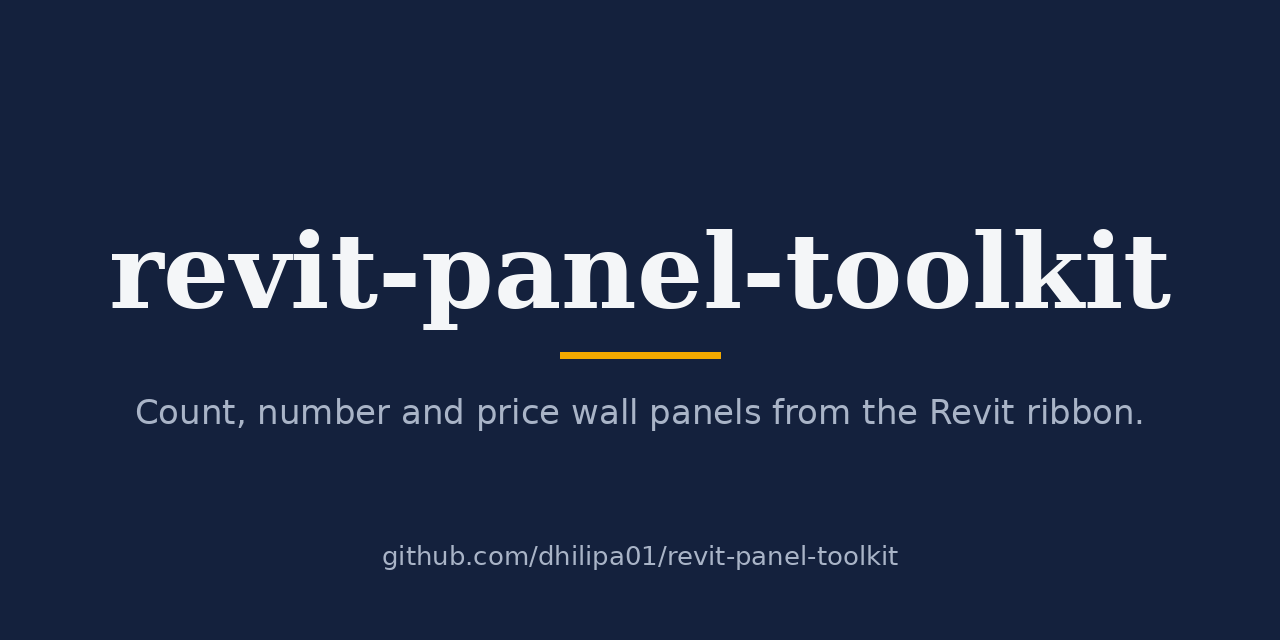
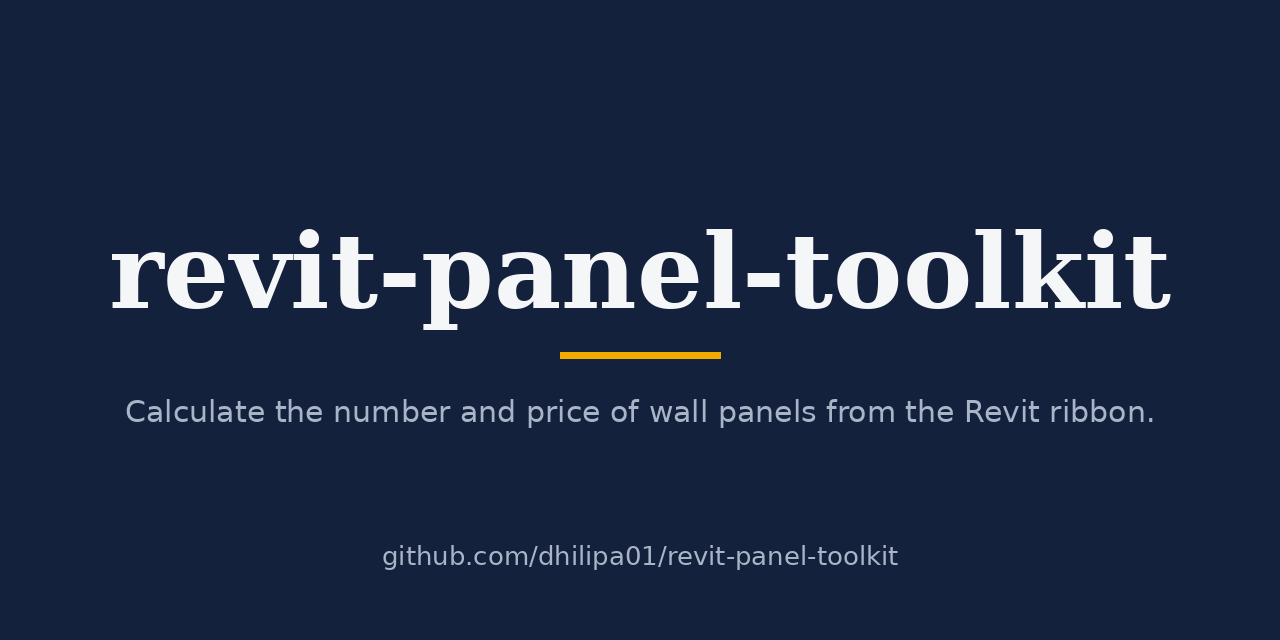
docs: use British English and plain wording

Changed region(s): [[0.0938, 0.625, 0.9062, 0.6875]]

diff --git a/tests/test_adapter.py b/tests/test_adapter.py
@@ -1,8 +1,9 @@
-"""Run: python3 test_adapter.py
+"""Run: python tests/test_adapter.py
 
-Runs the REAL bauser_revit / bauser_ui / button scripts against a tiny fake of
-pyRevit + the Revit API, so typos and wrong call shapes surface on Linux.
-It cannot prove the real Revit API behaves the same; see README 'Verify in Revit'.
+Runs the real bauser_revit and bauser_ui modules and the button scripts against a
+small fake of pyRevit and the Revit API, so typos and wrong call shapes show up on
+Linux. It cannot show that the Revit API behaves the same way. See
+docs/VERIFY_IN_REVIT.md for the checks that need Revit.
 """
 import contextlib
 import os

diff --git a/tests/test_core.py b/tests/test_core.py
@@ -1,4 +1,4 @@
-"""Run: python3 test_core.py  (checks the Revit-free logic; the Revit adapter can't run on Linux)"""
+"""Run: python tests/test_core.py. Covers the logic that has no Revit dependency."""
 import os
 import sys
 import tempfile

diff --git a/README.md b/README.md
@@ -5,12 +5,12 @@
   <img src="docs/media/wordmark-light.svg" alt="revit-panel-toolkit" width="640">
 </picture>
 
-**Count, number and price wall panels from the Revit ribbon.**
+Calculate the number and price of wall panels from the Revit ribbon.
 
-A pyRevit extension for panelized, industrialized construction.
+A pyRevit extension for panelised, industrialised construction.
 
 [![CI](https://img.shields.io/github/actions/workflow/status/dhilipa01/revit-panel-toolkit/ci.yml?branch=main&style=flat-square&label=CI&labelColor=14213D&color=3A4A66)](https://github.com/dhilipa01/revit-panel-toolkit/actions/workflows/ci.yml)
-[![License](https://img.shields.io/badge/license-MIT-3A4A66?style=flat-square&labelColor=14213D)](LICENSE)
+[![Licence](https://img.shields.io/badge/licence-MIT-3A4A66?style=flat-square&labelColor=14213D)](LICENSE)
 [![pyRevit](https://img.shields.io/badge/pyRevit-IronPython-3A4A66?style=flat-square&labelColor=14213D)](https://github.com/pyrevitlabs/pyRevit)
 
 </div>
@@ -28,23 +28,23 @@ Total        R$ 13,362.51  (with 5% waste)
 Approx.      € 2,357.45  (EUR/BRL 5.6682, 2026-10-19)
 ```
 
-The sample above runs without Revit, on made-up panels and illustrative prices.
+The sample runs without Revit, on made-up panels and illustrative prices.
 
-> **Status.** The logic is covered by tests that run outside Revit. The extension itself has not yet been run in a live Revit session. See [Verify in Revit](docs/VERIFY_IN_REVIT.md).
+> Status: the logic is covered by tests that run outside Revit. The extension has not yet been run in a live Revit session. See [Verify in Revit](docs/VERIFY_IN_REVIT.md).
 
 ## Why
 
-Panelized construction moves the production of prefabricated façade and interior wall panels into a factory. Each panel has to be counted, numbered and priced before it is built. Teams often do that by hand from Revit schedules. This extension puts each step behind one ribbon button, so the figures come straight from the model and reach the factory in one pass.
+Panelised construction moves the production of prefabricated façade and interior wall panels into a factory. Each panel needs a quantity, a number and a price before production starts, and teams often take these from Revit schedules by hand. This extension reads them from the model, one ribbon button for each step. It is a small piece of a BIM-to-factory design workflow, and the cost estimate also gives an early view of feasibility.
 
 ## Features
 
-- Count panels by wall type, with quantity, openings and area.
-- Number panels in one undoable transaction, level first, then left to right.
-- Price panels on net area or on full panel size, with a waste factor.
-- Show BRL with an approximate EUR figure.
-- Export a per-panel CSV and a budget CSV with code, description, unit, quantity, unit price and total.
-- Switch labels between Portuguese and English from the ribbon.
-- Keep the logic in plain Python, so it runs and is tested outside Revit.
+- Counts panels by wall type, with quantity, openings and area.
+- Numbers panels in one undoable transaction, level first, then left to right.
+- Prices panels on net area or on full panel size, with a waste factor.
+- Shows BRL with an approximate EUR figure.
+- Exports a per-panel CSV and a budget CSV with code, description, unit, quantity, unit price and total.
+- Switches labels between Portuguese and English from the ribbon.
+- Keeps the logic in plain Python, so it runs and is tested outside Revit.
 
 ## Installation
 
@@ -67,7 +67,7 @@ Select some walls, or select nothing to use every wall in the model, then click 
 | Button | What it does | Changes the model |
 |---|---|---|
 | Count Panels | Lists wall types with quantity, openings and area | No |
-| Number Panels | Writes `P-001`, `P-002`, ... to the Mark parameter, by level and then by X | Yes, one undoable transaction |
+| Number Panels | Writes `P-001`, `P-002` and so on to the Mark parameter, by level and then by X | Yes, one undoable transaction |
 | Panel Cost | Asks for a pricing basis and a waste factor, then shows the cost in BRL and approximate EUR | No |
 | PT / EN | Switches the labels between Portuguese and English | No |
 
@@ -98,30 +98,30 @@ Code;Description;Unit;Qty;Unit price (R$);Total (R$)
 Set a price and a reference code for a wall type in `src/Bauser.extension/lib/bauser_core.py`:
 
 ```python
-RATES = {"Facade": (520.0, "")}   # wall type name contains "Facade" -> R$ 520.00/m2, no reference code
+RATES = {"Facade": (520.0, "")}   # wall type name contains "Facade": R$ 520.00/m2, no reference code
 ```
 
 ## Configuration
 
-All settings live at the top of `src/Bauser.extension/lib/bauser_core.py`.
+All settings are at the top of `src/Bauser.extension/lib/bauser_core.py`.
 
 | Setting | Default | Meaning |
 |---|---|---|
-| `DEFAULT_RATE` | `490.0` | Placeholder price in R$/m2 for wall types with no entry in `RATES` |
-| `RATES` | `{}` | `{"type name part": (R$/m2, "reference code")}`. The code is only a label |
+| `DEFAULT_RATE` | `490.0` | Placeholder price in R$/m² for wall types with no entry in `RATES` |
+| `RATES` | `{}` | `{"type name part": (R$/m², "reference code")}`. The code is only a label |
 | `WASTE` | `0.05` | Default waste factor |
 | `MARK_PREFIX` | `"P-"` | Prefix for the Mark values |
 | `FX` | EUR/BRL 5.6682, 2026-10-19 | BCB PTAX closing rate, refreshed by hand |
 
-The language is stored in the pyRevit configuration and switched with the PT / EN button. Prices and waste in this repository are demo values.
+The language is stored in the pyRevit configuration and switched with the PT / EN button. Prices and waste in this repository are demonstration values.
 
 ## Documentation
 
-- [Reference](docs/REFERENCE.md): buttons, Revit parameters, formulas, CSV formats, module functions
-- [Standards and sources](docs/STANDARDS.md): ABNT NBR 16970, SINAPI, BIM decrees, EU-Mercosur, exchange rates
+- [Reference](docs/REFERENCE.md): buttons, Revit parameters, formulas, CSV formats and module functions
+- [Standards and sources](docs/STANDARDS.md): ABNT NBR 16970, SINAPI, the BIM decrees, EU-Mercosur and exchange rates
 - [Roadmap](docs/ROADMAP.md)
 - [Verify in Revit](docs/VERIFY_IN_REVIT.md)
-- [Prompts](docs/PROMPTS.md): how AI was used, and how its output was checked
+- [Prompts](docs/PROMPTS.md): how AI was used and how its output was checked
 
 ## Development
 
@@ -137,12 +137,12 @@ examples/               runnable sample
 docs/                   reference, standards, roadmap, checklists
 ```
 
-The code runs on IronPython 2.7 and on CPython 3: no f-strings, no type hints, and accented text uses `u""` literals.
+The code runs on IronPython 2.7 and on CPython 3. It uses no f-strings and no type hints, and accented text uses `u""` literals.
 
 ## Contributing
 
-Open an issue before a large change. Run both test files before a pull request. Start commit messages with `feat:`, `fix:`, `docs:` or `refactor:`.
+Open an issue before a large change, and run both test files before a pull request. Start commit messages with `feat:`, `fix:`, `docs:` or `refactor:`.
 
-## License
+## Licence
 
 MIT. See [LICENSE](LICENSE).

diff --git a/docs/VERIFY_IN_REVIT.md b/docs/VERIFY_IN_REVIT.md
@@ -1,23 +1,23 @@
 # Verify in Revit
 
-The logic is tested outside Revit. These steps check the parts that only a live Revit session can. Use a small model: two levels, about eight walls, two wall types, drawn left to right.
+The logic is tested outside Revit. These steps cover what only a live Revit session can show. Use a small model with two levels, about eight walls and two wall types, drawn from left to right.
 
 ## Buttons
 
-1. **Count Panels.** The window opens and the counts match the model. If a plain pyRevit output window opens instead, the WPF window failed and the traceback is printed there.
-2. **Number Panels.** Try it on a selection of two walls first. Ctrl+Z reverts it.
-3. **Panel Cost.** Both CSV buttons save a file that Excel opens with correct accents.
-4. **PT / EN.** The labels switch on the next click.
+1. Click Count Panels. The window opens and the counts match the model. If a plain pyRevit output window opens instead, the WPF window failed and the traceback is printed there.
+2. Try Number Panels on a selection of two walls first. Ctrl+Z reverts it.
+3. Run Panel Cost. Both CSV buttons save a file that Excel opens with the accents intact.
+4. Click PT / EN. The labels change on the next click.
 
 ## Net area and full panel size
 
-1. One plain wall, free ends, no openings. The Area parameter should equal Length times height. If not, Revit's Area and this extension's length times height measure different things.
-2. Add a door. Net area drops by the door cut. Full panel size does not change. Openings shows 1.
-3. Join two walls at a corner and compare both figures. A small difference means Revit's Area uses trimmed faces while this extension uses the location line length. Sources disagree and Autodesk does not say.
-4. Edit a wall profile, for example notch a corner. The warning for the full panel size basis must appear.
-5. Attach a wall top to a sloped roof. No warning appears, which is a known gap. Full panel size will be too high.
+1. Take one plain wall with free ends and no openings. Its Area parameter should equal its Length times its height. If it does not, Revit's Area and this extension's length times height measure different things.
+2. Add a door. Net area drops by the door cut, full panel size stays the same, and Openings shows 1.
+3. Join two walls at a corner and compare both figures. A small difference would mean that Revit's Area uses trimmed faces while this extension uses the location line length. Sources disagree and Autodesk does not say.
+4. Edit a wall profile, for example by notching a corner. The warning for the full panel size basis must appear.
+5. Attach a wall top to a sloped roof. No warning appears, which is a known gap, and full panel size comes out too high.
 
 ## Other
 
-- Walls that already share a Mark value elsewhere in the model can trigger Revit's duplicate-Mark warning. Use a clean model for the check.
-- Revit 2024 and later, and earlier versions, read ElementId values through different properties. Both are handled in code and neither has been run on a real install.
+- Walls that already share a Mark value elsewhere in the model can trigger Revit's duplicate Mark warning. Use a clean model for the check.
+- Revit 2024 and later read ElementId values through a different property from earlier versions. The code handles both, and neither has been run on a real installation.

diff --git a/docs/PROMPTS.md b/docs/PROMPTS.md
@@ -36,8 +36,6 @@ Do not invent members. If unsure, write "unverified".
 | Results window | pyRevit `WPFWindow`, `FindName`; `forms/_cpy.py` | WPF is unsupported on CPython, so the extension must use IronPython |
 | Accented text | IronPython 2.7 string rules | Every accented literal became `u""` |
 
-## Lessons
+## Notes
 
-- A first draft written from memory looked right and was still unverified. Reading the pyRevit source found the CPython limit before it could fail in front of a user.
-- Ask the model to list the API members it used. That list becomes the checklist.
-- Prices, waste and the exchange rate are placeholders until a real source supplies them. The window says so.
+A first draft written from memory looked right and was still unverified. Reading the pyRevit source found the CPython limit before it could fail in front of a user. Asking the model to list the API members it used gives the checklist above. Prices, waste and the exchange rate are placeholders until a real source supplies them, and the window says so.

diff --git a/docs/ROADMAP.md b/docs/ROADMAP.md
@@ -23,6 +23,7 @@ Open work, in the order it is likely to be done. Finished items stay listed so t
 ## Later
 
 - [ ] Split a wall into panels
+- [ ] Automatic panel detailing for factory production
 - [ ] Create a panel assembly with its assembly views and sheet, for factory shop drawings
 - [ ] Export a cutting list for factory production
 - [ ] Interface check for the NBR 16970-3 topics: wall to slab, wall to opening, mixed systems
